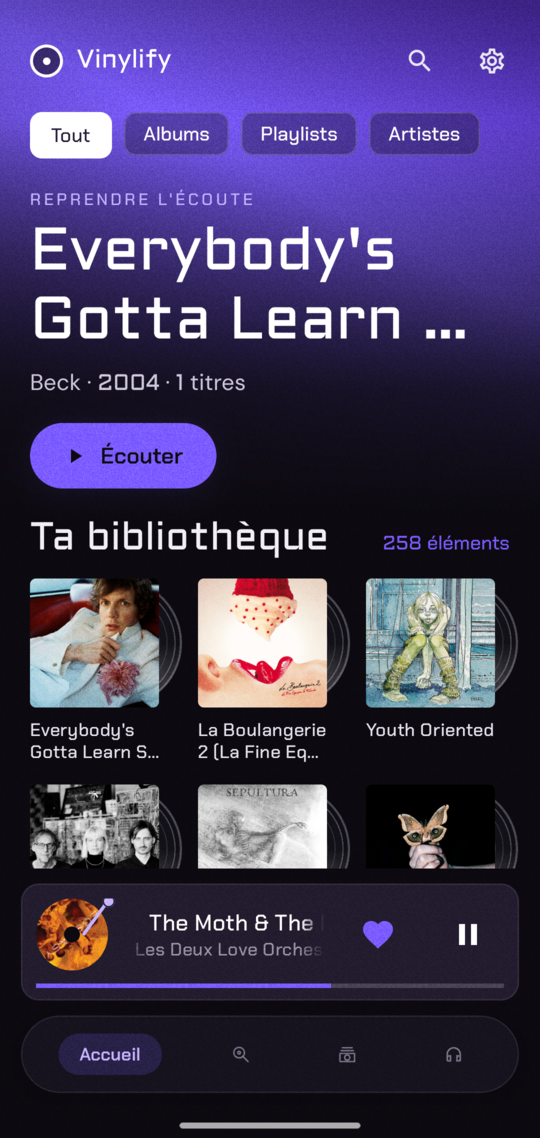
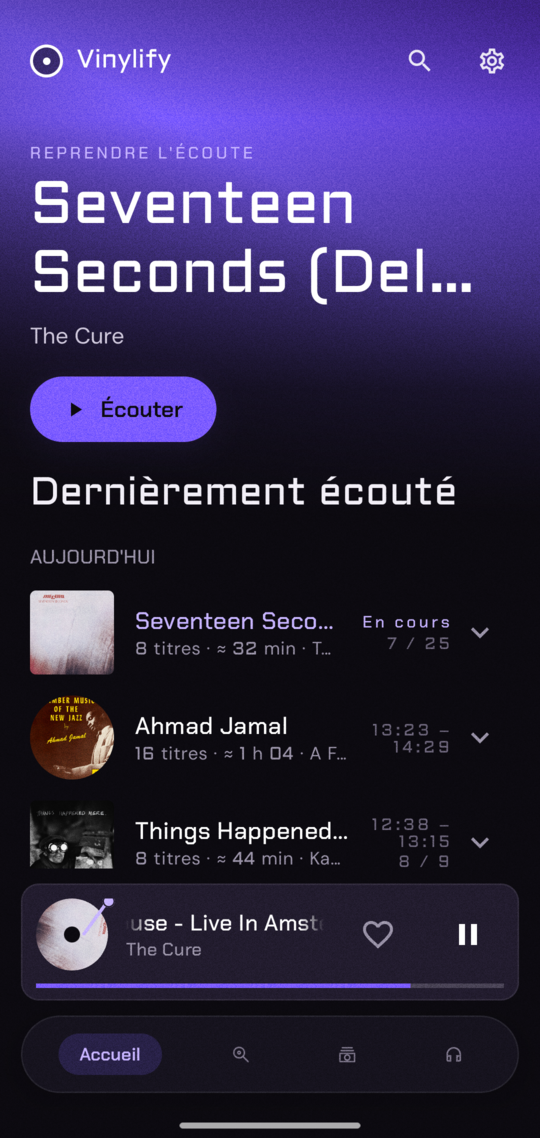
docs: décrire « Dernièrement écouté » et rafraîchir la capture de l'accueil

diff --git a/README.md b/README.md
@@ -13,7 +13,7 @@ Une application Android qui transforme ta bibliothèque Spotify en discothèque 
 
 - **Connexion Spotify** par OAuth PKCE (aucun secret embarqué). La session est conservée, le jeton est chiffré (Tink + Android Keystore).
 - **Splash animé** de 4 secondes : la platine du loader se pose, tourne un cycle, puis se fond dans l'écran de connexion ou l'accueil.
-- **Accueil** : reprise de l'écoute avec le dernier album enregistré, filtres (Tout, Albums, Playlists, Artistes) et grille de pochettes avec leur disque.
+- **Accueil** : reprise de la dernière écoute et **« Dernièrement écouté »**, l'historique Spotify rangé par jour (aujourd'hui, hier, cette semaine, plus tôt). Les écoutes consécutives d'un même album, d'une même playlist ou d'un même artiste forment une seule ligne, avec le nombre de titres, la durée estimée, la plage horaire et la progression dans l'album (« 6 / 10 »). Une ligne se déplie pour montrer les titres écoutés, et un tap sur un titre le relance. Spotify ne garde qu'une cinquantaine d'écoutes : l'application les conserve sur l'appareil pendant 90 jours pour remonter plus loin.
 - **Bibliothèque, Recherche** (par titre, album, artiste ou playlist), pages **Album**, **Artiste** et **Playlist**.
 - **Lecteur** : une vraie platine. La pochette surplombe le disque, le bras de lecture se pose, le disque tourne et ralentit à l'arrêt. Un balayage de la pochette passe au morceau suivant ou précédent, la platine reste en place. Un tap sur l'artiste ouvre sa page, un tap sur le titre ouvre l'album.
 - **Paroles** synchronisées (via [LRCLIB](https://lrclib.net)), affichées en plein écran et **gravées le long d'un sillon du disque** : le texte ne change que lorsqu'il passe derrière la pochette, sans mise à jour en temps réel.
@@ -41,13 +41,15 @@ Toutes sont des polices Google Fonts téléchargées à l'exécution (Google Pla
 
 - **Kotlin** 2.4, **Jetpack Compose** (Material 3, BOM 2025.12), **Navigation Compose**
 - **Hilt** pour l'injection, ViewModels et `StateFlow`
-- **[spotify-sdk](https://github.com/vandervdb/spotify-sdk)** : le SDK maison (Kotlin Multiplatform) qui porte l'API Web Spotify, l'authentification, App Remote et les paroles. Publié sur Maven Central (`io.github.vandervdb`), sa version est fixée dans `gradle/libs.versions.toml`
+- **[spotify-sdk](https://github.com/vandervdb/spotify-sdk)** : le SDK maison (Kotlin Multiplatform) qui porte l'API Web Spotify, l'authentification, App Remote et les paroles. Publié sur Maven Central (`io.github.vandervdb`), sa version est fixée dans `gradle/libs.versions.toml`. Le temps que la 0.3.0 (historique d'écoute) y paraisse, le build la lit depuis `mavenLocal` : publie-la d'abord depuis le dépôt du SDK avec `./gradlew publishToMavenLocal -PreleaseVersion=0.3.0-SNAPSHOT`
 - Tink + Android Keystore pour le chiffrement du jeton
+- **Room** pour l'historique d'écoute conservé sur l'appareil
 - Android **minSdk 26**, targetSdk 35
 
 Organisation du code (`app/src/main/kotlin/org/vander/android/vinylify`) :
 
 ```
+data/           historique d'écoute conservé sur l'appareil (Room)
 designsystem/   thème, couleurs, typographie, composants (platine, disque, loader, dock…)
 feature/        un dossier par écran : connection, home, library, search, album, artist,
                 playlist, player, lyrics, queue, profile, settings
